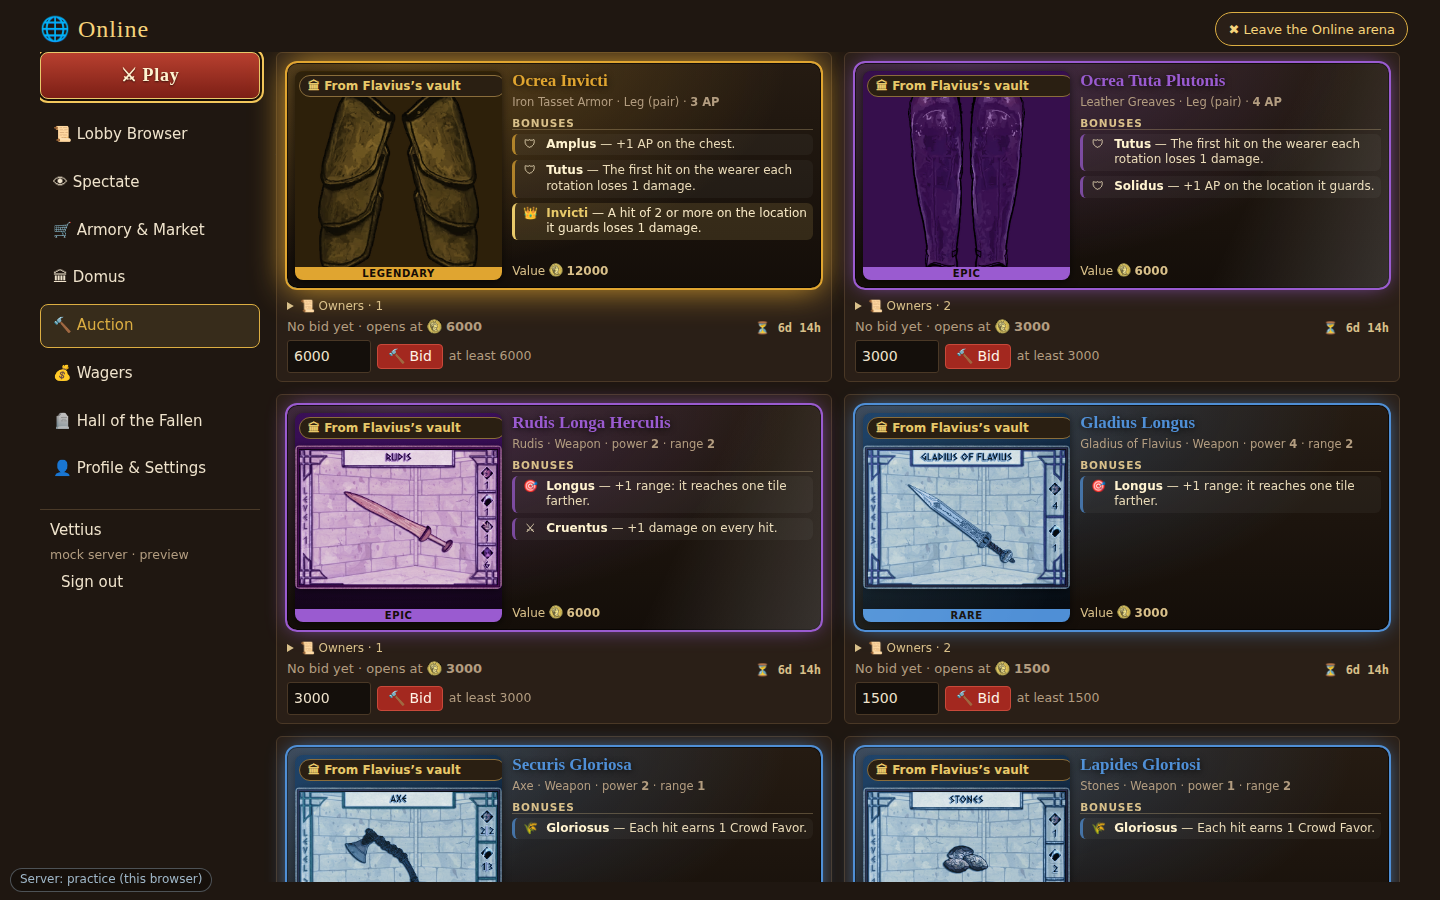
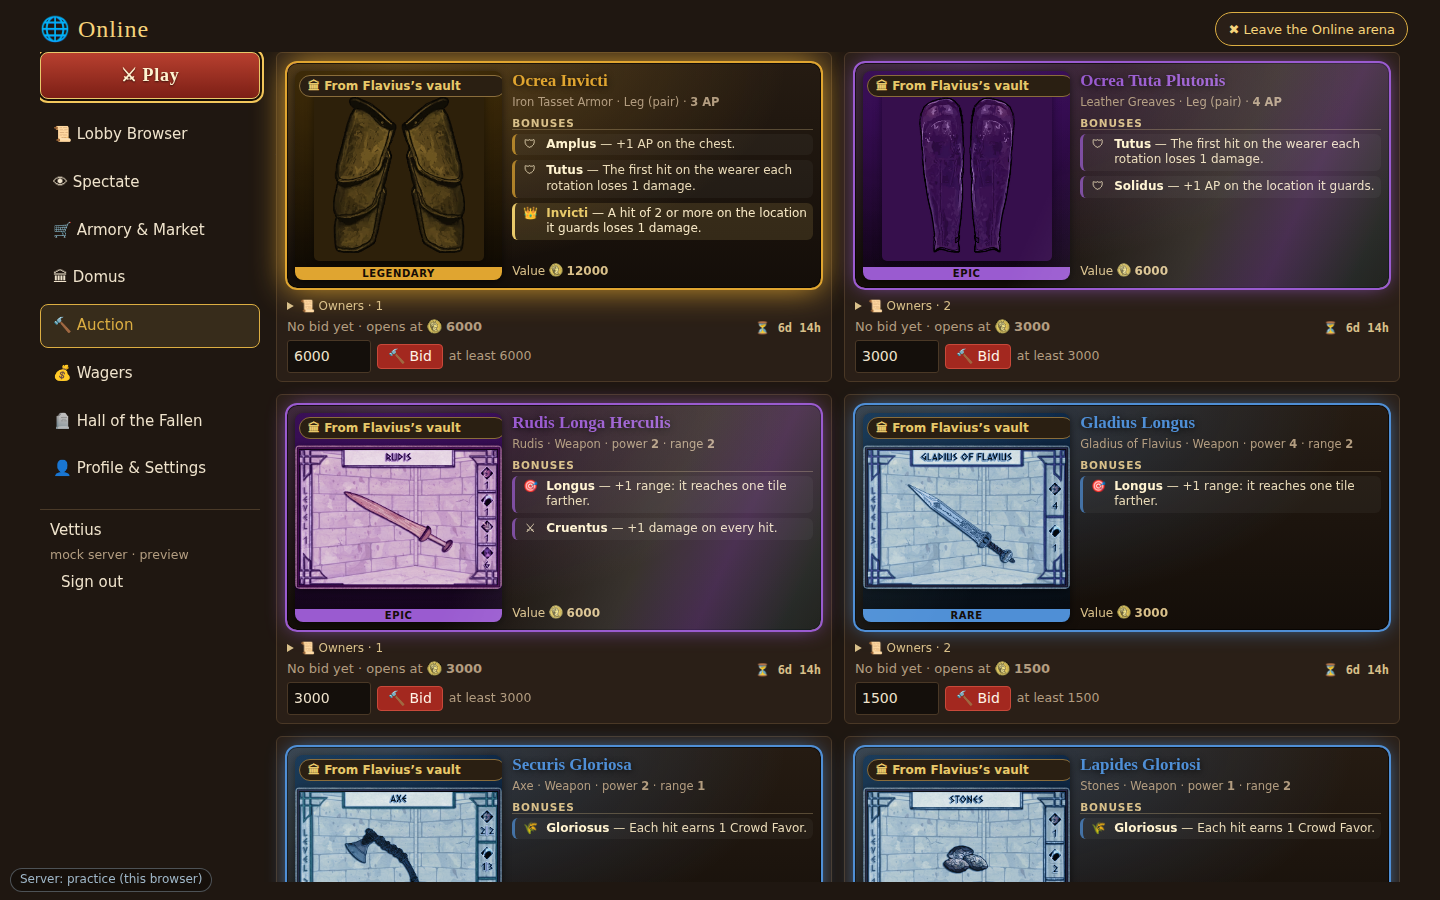
Auction lot card: armor art fits the box at ~82% [skip ci]
Claude-Session: https://claude.ai/code/session_01BLtNGuDrMd265uhsDUPs5S

diff --git a/src/239-v96auc.js b/src/239-v96auc.js
@@ -63,6 +63,7 @@ function auc96Fix(h){if(!h||h.indexOf('au84-lot')<0)return h;const X=ONL84.auc;i
 #onl .au96c .au96a{align-self:stretch;display:flex;align-items:center;justify-content:center;background:rgba(0,0,0,.28);position:relative}
 #onl .au96c .au96a>.cimg{width:100%;height:auto;max-height:100%;image-rendering:auto}
 #onl .au96c .au96a>.vlt89{position:absolute;top:4px;left:4px;z-index:3;margin:0}
+#onl .au96c.na84 .au96a>.cimg{width:82%;height:82%;max-height:82%;aspect-ratio:auto;background-size:contain;background-repeat:no-repeat;background-position:center}
 #onl .au96c .au96b{display:flex;flex-direction:column;gap:4px;min-width:0}
 #onl .au96c .nw83-n{font-size:17px}
 #onl .au96h{font:700 10.5px system-ui,sans-serif;letter-spacing:.08em;text-transform:uppercase;color:#d9c08a;border-bottom:1px solid rgba(217,192,138,.3);margin-top:2px}
@@ -78,4 +79,4 @@ function auc96Fix(h){if(!h||h.indexOf('au84-lot')<0)return h;const X=ONL84.auc;i
 #onl .au96f>.hist91,#onl .au96f>.au84-bids{grid-column:1/-1;display:inline-block}
 #onl .au96-note{margin:6px 0;padding:6px 10px;border:1px solid rgba(232,201,106,.4);border-radius:8px;background:rgba(232,201,106,.08);color:#f6e7c4;font-size:13px}
 @media (max-width:600px){#onl .au84-grid{grid-template-columns:1fr}#onl .au84-lot.au96{height:auto}
- #onl .au84-lot.au96>.nw83.au96c{grid-template-columns:1fr}#onl .au96c .au96a>.cimg{width:min(100%,220px);margin:0 auto}}`;document.head.appendChild(st)}
+ #onl .au84-lot.au96>.nw83.au96c{grid-template-columns:1fr}#onl .au96c .au96a>.cimg{width:min(100%,220px);margin:0 auto}#onl .au96c.na84 .au96a{min-height:240px}#onl .au96c.na84 .au96a>.cimg{width:82%;height:200px;max-height:none}}`;document.head.appendChild(st)}
